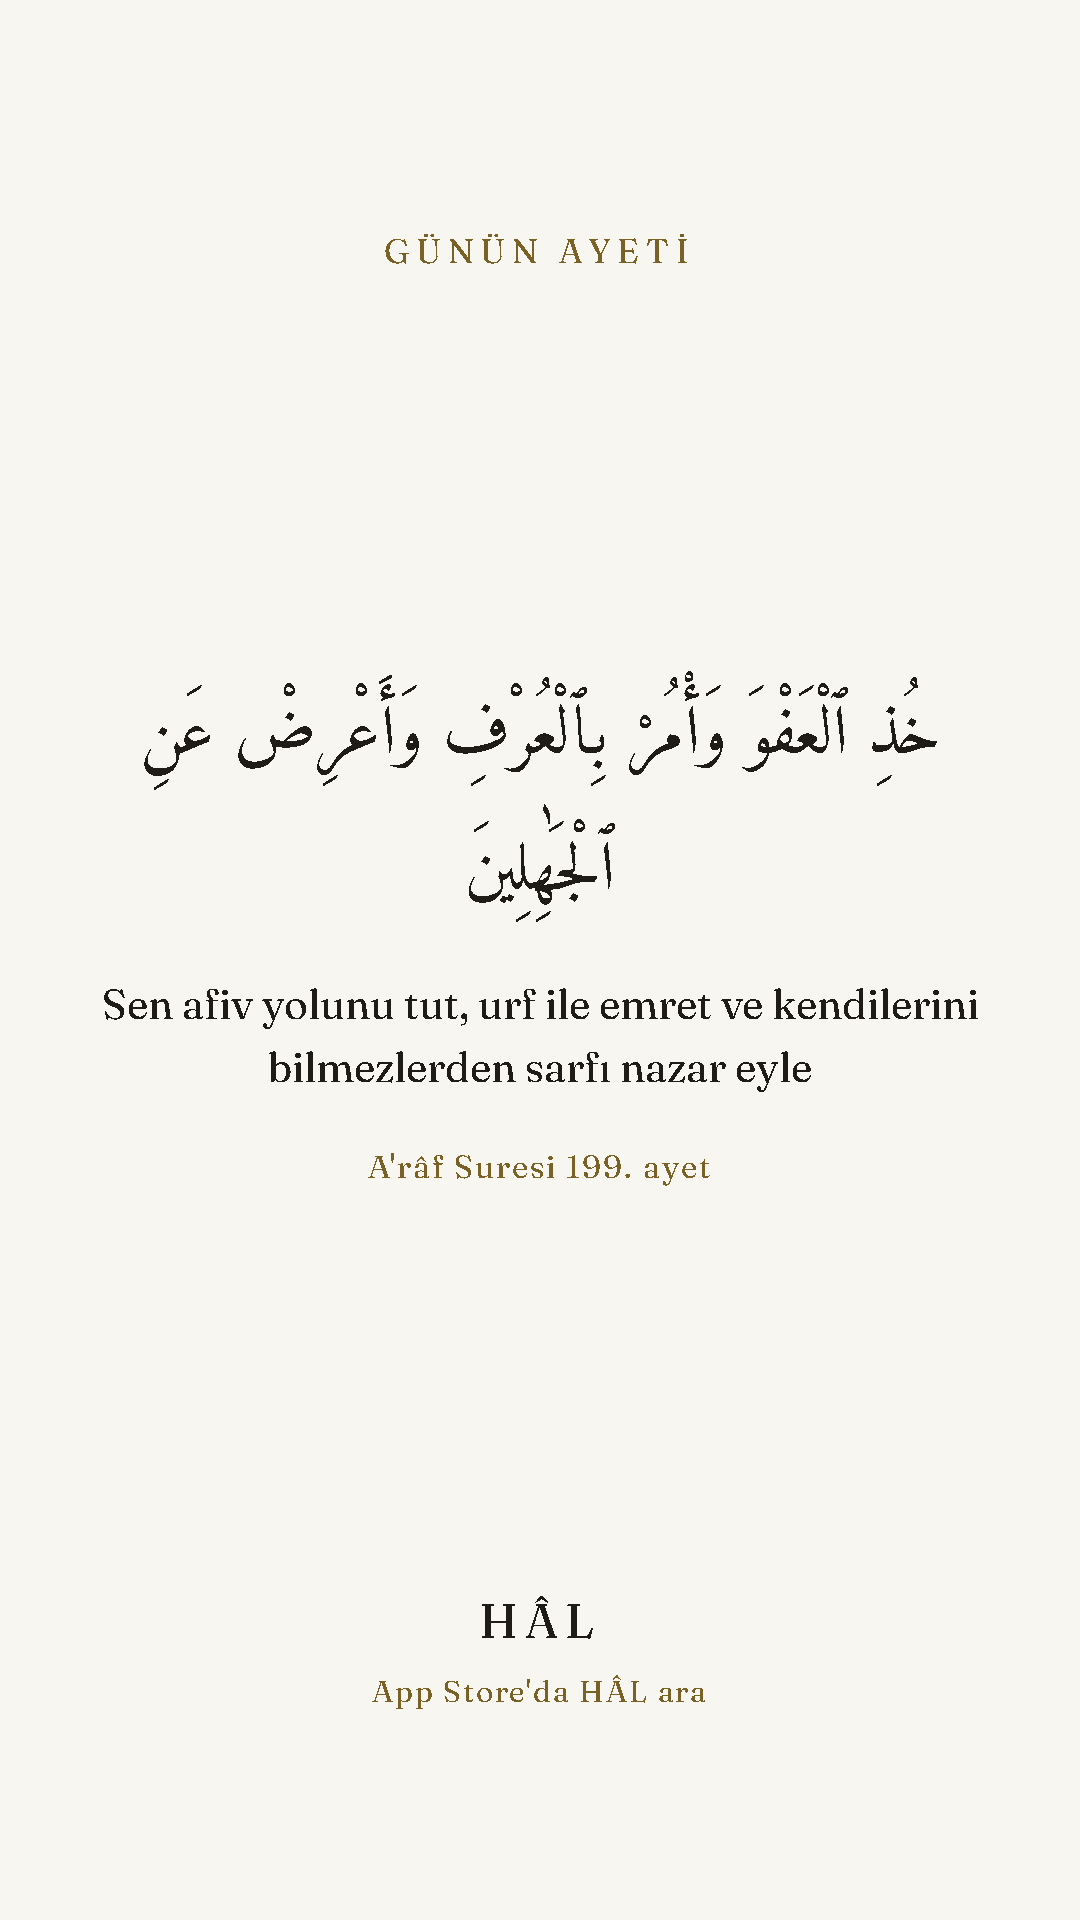
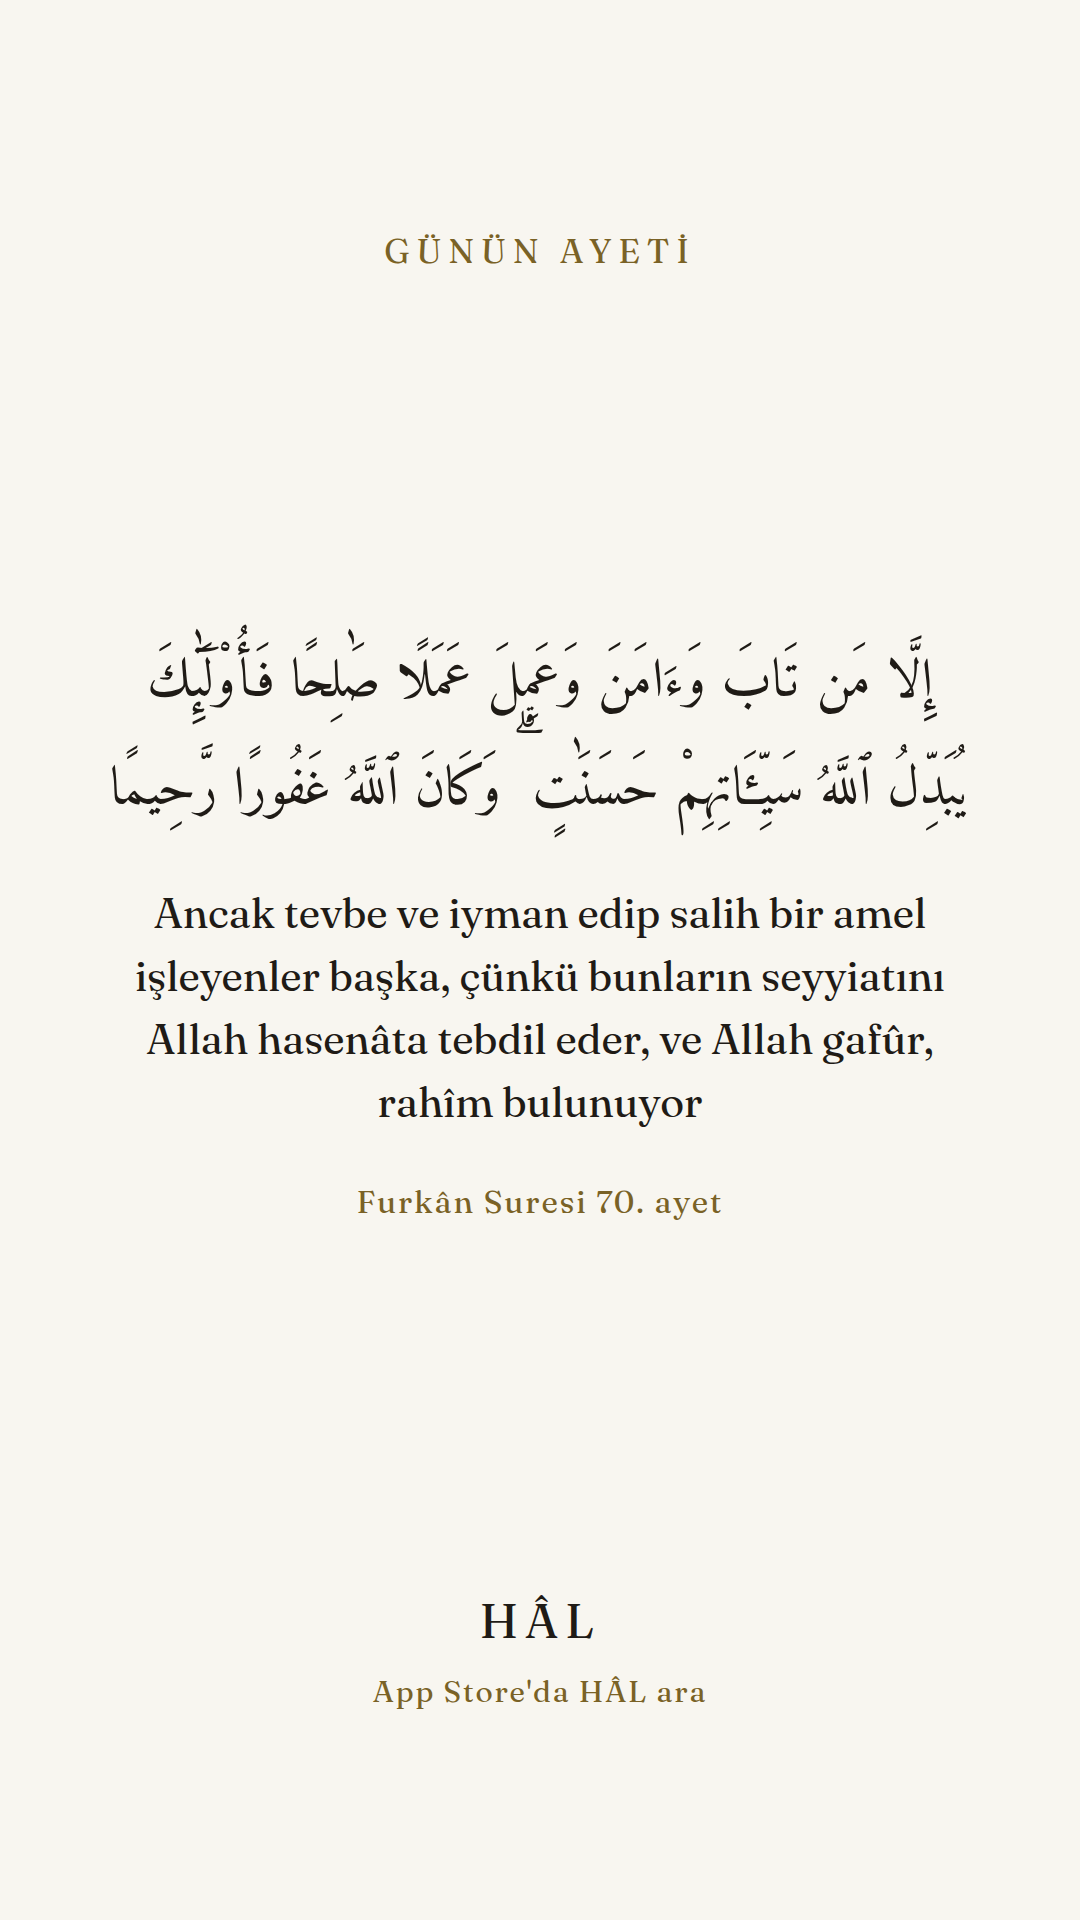
chore: günün ayeti

Changed region(s): [[0.0917, 0.3125, 0.9167, 0.6562]]

diff --git a/gunun-ayeti/index.html b/gunun-ayeti/index.html
@@ -5,21 +5,21 @@
 <meta name="viewport" content="width=device-width, initial-scale=1">
 <meta name="robots" content="max-image-preview:large">
 <meta name="apple-itunes-app" content="app-id=6837715909">
-<title>Günün Ayeti: A&#x27;râf Suresi 199. ayet (26.11.2026)</title>
-<meta name="description" content="A&#x27;râf Suresi 199. ayet (7:199): Sen afiv yolunu tut, urf ile emret ve kendilerini bilmezlerden sarfı nazar eyle">
+<title>Günün Ayeti: Furkân Suresi 70. ayet (27.11.2026)</title>
+<meta name="description" content="Furkân Suresi 70. ayet (25:70): Ancak tevbe ve iyman edip salih bir amel işleyenler başka, çünkü bunların seyyiatını Allah hasenâta tebdil eder, ve Allah gafûr, rahîm bulunuyor">
 <link rel="canonical" href="https://kilinccan.github.io/hal/gunun-ayeti/">
 <link rel="alternate" type="application/rss+xml" title="HÂL günün ayeti" href="https://kilinccan.github.io/hal/feed.xml">
 <meta property="og:type" content="article">
 <meta property="og:site_name" content="HÂL">
 <meta property="og:locale" content="tr_TR">
-<meta property="og:title" content="Günün Ayeti: A&#x27;râf Suresi 199. ayet (26.11.2026)">
-<meta property="og:description" content="A&#x27;râf Suresi 199. ayet (7:199): Sen afiv yolunu tut, urf ile emret ve kendilerini bilmezlerden sarfı nazar eyle">
+<meta property="og:title" content="Günün Ayeti: Furkân Suresi 70. ayet (27.11.2026)">
+<meta property="og:description" content="Furkân Suresi 70. ayet (25:70): Ancak tevbe ve iyman edip salih bir amel işleyenler başka, çünkü bunların seyyiatını Allah hasenâta tebdil eder, ve Allah gafûr, rahîm bulunuyor">
 <meta property="og:url" content="https://kilinccan.github.io/hal/gunun-ayeti/">
-<meta property="og:image" content="https://kilinccan.github.io/hal/ayet/7-199/og.png">
+<meta property="og:image" content="https://kilinccan.github.io/hal/ayet/25-70/og.png">
 <meta property="og:image:width" content="1200">
 <meta property="og:image:height" content="630">
 <meta name="twitter:card" content="summary_large_image">
-<meta name="twitter:image" content="https://kilinccan.github.io/hal/ayet/7-199/og.png">
+<meta name="twitter:image" content="https://kilinccan.github.io/hal/ayet/25-70/og.png">
 <style>
   :root { --bg: #F8F6F0; --fg: #1F2A25; --muted: #5B6660; --accent: #23483B; --on-accent: #F8F6F0; --line: #E0DCCF; }
   @media (prefers-color-scheme: dark) {
@@ -58,20 +58,20 @@
 <main>
 <p class="marka"><a href="../">HÂL</a></p>
 <h1>Günün Ayeti</h1>
-<p class="muted">26.11.2026 · A&#x27;râf Suresi 199. ayet</p>
+<p class="muted">27.11.2026 · Furkân Suresi 70. ayet</p>
 <h2>Arapçası</h2>
-<p class="arapca" dir="rtl" lang="ar">خُذِ ٱلْعَفْوَ وَأْمُرْ بِٱلْعُرْفِ وَأَعْرِضْ عَنِ ٱلْجَٰهِلِينَ</p>
+<p class="arapca" dir="rtl" lang="ar">إِلَّا مَن تَابَ وَءَامَنَ وَعَمِلَ عَمَلًا صَٰلِحًا فَأُو۟لَٰٓئِكَ يُبَدِّلُ ٱللَّهُ سَيِّـَٔاتِهِمْ حَسَنَٰتٍ ۗ وَكَانَ ٱللَّهُ غَفُورًا رَّحِيمًا</p>
 <h2>Okunuşu</h2>
-<p>Hızil afve ve&#x27;mür bil urfi ve a&#x27;riz anil câhilîn.</p>
+<p>İllâ men tâbe ve âmene ve amile amelen sâlihan fe ülâike yübeddilüllâhü seyyiâtihim hasenât. Ve kânallâhü gafûran rahîmâ.</p>
 <h2>Meali (Elmalılı Hamdi Yazır)</h2>
-<p>Sen afiv yolunu tut, urf ile emret ve kendilerini bilmezlerden sarfı nazar eyle</p>
-<p><a href="../ayet/7-199/">Bu ayetin sayfası</a> · <a href="https://kilinccan.github.io/hal/feed.xml">RSS</a></p>
-<p><a class="gonder" href="https://wa.me/?text=G%C3%BCn%C3%BCn%20ayeti%2C%20A%27r%C3%A2f%20Suresi%20199.%20ayet%3A%20Sen%20afiv%20yolunu%20tut%2C%20urf%20ile%20emret%20ve%20kendilerini%20bilmezlerden%20sarf%C4%B1%20nazar%20eyle%0Ahttps%3A%2F%2Fkilinccan.github.io%2Fhal%2Fayet%2F7-199%2F" rel="noopener">WhatsApp'ta gönder</a></p>
+<p>Ancak tevbe ve iyman edip salih bir amel işleyenler başka, çünkü bunların seyyiatını Allah hasenâta tebdil eder, ve Allah gafûr, rahîm bulunuyor</p>
+<p><a href="../ayet/25-70/">Bu ayetin sayfası</a> · <a href="https://kilinccan.github.io/hal/feed.xml">RSS</a></p>
+<p><a class="gonder" href="https://wa.me/?text=G%C3%BCn%C3%BCn%20ayeti%2C%20Furk%C3%A2n%20Suresi%2070.%20ayet%3A%20Ancak%20tevbe%20ve%20iyman%20edip%20salih%20bir%20amel%20i%C5%9Fleyenler%20ba%C5%9Fka%2C%20%C3%A7%C3%BCnk%C3%BC%20bunlar%C4%B1n%20seyyiat%C4%B1n%C4%B1%20Allah%20hasen%C3%A2ta%20tebdil%20eder%2C%20ve%20Allah%20gaf%C3%BBr%2C%20rah%C3%AEm%20bulunuyor%0Ahttps%3A%2F%2Fkilinccan.github.io%2Fhal%2Fayet%2F25-70%2F" rel="noopener">WhatsApp'ta gönder</a></p>
 <p><a class="indir" href="https://apps.apple.com/tr/app/id6837715909">HÂL'i App Store'dan indir</a></p>
 <p class="muted">Hâline uygun ayet ve dualar, HÂL uygulamasında Arapçası, okunuşu, meali ve kaynağıyla bir arada.</p>
 <h2>Durumuna koy</h2>
 <p class="muted">Bugünün ayetini görsel olarak indir, WhatsApp durumuna ekle.</p>
-<figure class="kare"><img src="durum.png" width="1080" height="1920" alt="Günün ayeti, A&#x27;râf Suresi 199. ayet: Sen afiv yolunu tut, urf ile emret ve kendilerini bilmezlerden sarfı nazar eyle" style="max-width:260px">
+<figure class="kare"><img src="durum.png" width="1080" height="1920" alt="Günün ayeti, Furkân Suresi 70. ayet: Ancak tevbe ve iyman edip salih bir amel işleyenler başka, çünkü bunların seyyiatını Allah hasenâta tebdil eder, ve Allah gafûr, rahîm bulunuyor" style="max-width:260px">
 <div class="islem"><a class="gonder" href="durum.png" download="hal-gunun-ayeti.png">İndir</a></div></figure>
 <h2>Sitene ekle</h2>
 <p class="muted">Aşağıdaki kodu sayfana yapıştır; kutu her sabah kendiliğinden yenilenir. İzleme ve çerez yoktur.</p>

diff --git a/gunun-ayeti/kutu/index.html b/gunun-ayeti/kutu/index.html
@@ -24,9 +24,9 @@
 <body>
 <div class="kutu">
 <p class="baslik">GÜNÜN AYETİ</p>
-<p class="arapca" dir="rtl" lang="ar">خُذِ ٱلْعَفْوَ وَأْمُرْ بِٱلْعُرْفِ وَأَعْرِضْ عَنِ ٱلْجَٰهِلِينَ</p>
-<p>Sen afiv yolunu tut, urf ile emret ve kendilerini bilmezlerden sarfı nazar eyle</p>
-<p class="kaynak">A&#x27;râf Suresi 199. ayet · Elmalılı · <a href="https://kilinccan.github.io/hal/gunun-ayeti/" target="_blank" rel="noopener">HÂL ile</a></p>
+<p class="arapca" dir="rtl" lang="ar">إِلَّا مَن تَابَ وَءَامَنَ وَعَمِلَ عَمَلًا صَٰلِحًا فَأُو۟لَٰٓئِكَ يُبَدِّلُ ٱللَّهُ سَيِّـَٔاتِهِمْ حَسَنَٰتٍ ۗ وَكَانَ ٱللَّهُ غَفُورًا رَّحِيمًا</p>
+<p>Ancak tevbe ve iyman edip salih bir amel işleyenler başka, çünkü bunların seyyiatını Allah hasenâta tebdil eder, ve Allah gafûr, rahîm bulunuyor</p>
+<p class="kaynak">Furkân Suresi 70. ayet · Elmalılı · <a href="https://kilinccan.github.io/hal/gunun-ayeti/" target="_blank" rel="noopener">HÂL ile</a></p>
 </div>
 </body>
 </html>
